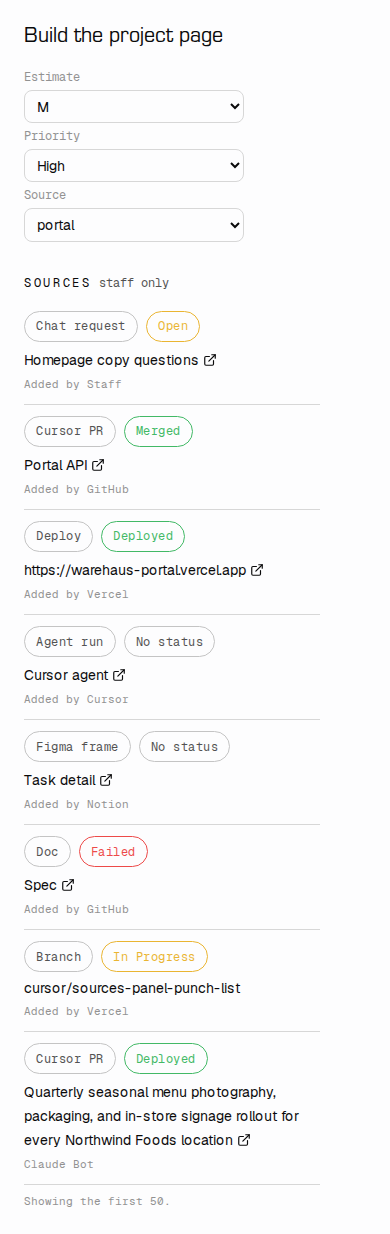
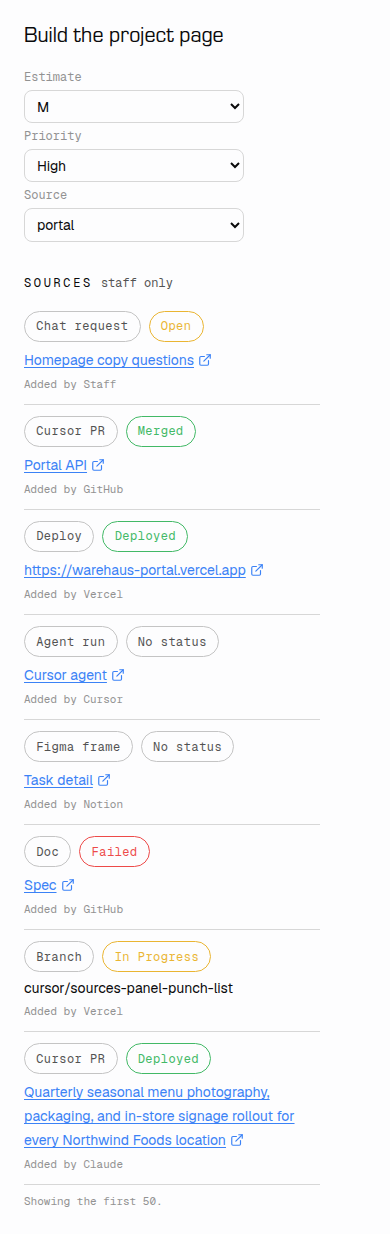
Prefix short added-by names and underline source links.
Every short actor reads as "Added by {name}", and a trailing bot or source marker is dropped so claude_bot is "Added by Claude". Source titles use the info hue, which stays distinct from the foreground inside the design-system scope, and stay underlined with a new-tab accessible name.

diff --git a/apps/portal/src/components/tasks/TaskSources.test.ts b/apps/portal/src/components/tasks/TaskSources.test.ts
@@ -39,7 +39,15 @@ describe('task sources panel', () => {
     assert.match(html, /Added by Notion/);
     assert.equal(html.includes('>Ready<'), false);
     assert.equal(html.includes('>Notion<'), false);
-    assert.match(html, />Claude Bot</);
+    assert.equal(html.includes('>Claude Bot<'), false);
+    assert.equal(html.includes('Added by Claude Bot'), false);
+    assert.match(html, /Added by Claude/);
+    const names = [...html.matchAll(/<a\b[^>]*aria-label="([^"]*)"/g)].map((match) => match[1] ?? '');
+    assert.equal(names.length, SOURCE_PANEL_LINKS.length - 1);
+    for (const name of names) assert.match(name, / \(opens in a new tab\)$/);
+    assert.ok(names.includes('Portal API (opens in a new tab)'));
+    assert.ok(names.includes('Homepage copy questions (opens in a new tab)'));
+    assert.equal(html.includes('aria-label="cursor/sources-panel-punch-list'), false);
     assert.match(html, /task-source-link/);
     assert.match(html, /lucide-external-link/);
     assert.match(html, /Quarterly seasonal menu photography/);
@@ -87,6 +95,9 @@ describe('task sources panel', () => {
     assert.match(modal, /marginTop: phone \? 'calc\(var\(--s-6\) - 24px\)'/);
     const css = readFileSync(new URL('../../styles/global.css', import.meta.url), 'utf8');
     assert.match(css, /\.task-sources-section\s*\{\s*margin-top:\s*var\(--s-6\);/);
+    assert.match(css, /\.ds-scope a\.task-source-link\s*\{[^}]*color:\s*var\(--info\)/);
+    assert.match(css, /\.ds-scope a\.task-source-link\s*\{[^}]*text-decoration:\s*underline/);
+    assert.equal(/\.ds-scope a\.task-source-link\s*\{[^}]*var\(--accent\)/.test(css), false);
     assert.match(css, /\.ds-scope a\.task-source-link:hover[\s\S]*text-decoration:\s*underline/);
     const tasks = readFileSync(new URL('../../../convex/tasks.ts', import.meta.url), 'utf8');
     const start = tasks.indexOf('export const linksForStaff');

diff --git a/packages/portal-sync/src/portalApi.ts b/packages/portal-sync/src/portalApi.ts
@@ -474,10 +474,21 @@ function looksLikeOpaqueId(value: string): boolean {
 }
 
 /**
+ * Drop a trailing bot or source marker so `claude_bot` is "Claude", not "Claude Bot".
+ * A name that is only that marker stays as written.
+ */
+function actorName(value: string): string {
+  const parts = value.trim().toLowerCase().split(/[_-]+/).filter(Boolean);
+  const tail = parts[parts.length - 1];
+  if (parts.length > 1 && (tail === 'bot' || tail === 'source')) parts.pop();
+  return sourcePlainWords(parts.join(' '));
+}
+
+/**
  * Who added the link, in plain words.
  * Known actors, including Notion, are named.
  * A Convex id or other long alphanumeric is "Added by Staff", not a title-cased id.
- * Any other unknown value is title-cased.
+ * Every other short name is "Added by {name}". A bot or source suffix is not part of the name.
  */
 export function sourceAddedByLabel(addedBy: string | null | undefined): string {
   const raw = addedBy?.trim() ?? '';
@@ -485,8 +496,8 @@ export function sourceAddedByLabel(addedBy: string | null | undefined): string {
   const named = ADDED_BY_PLAIN[raw.toLowerCase()];
   if (named) return named;
   if (looksLikeOpaqueId(raw)) return 'Added by Staff';
-  const words = sourcePlainWords(raw);
-  return words || 'Unknown';
+  const name = actorName(raw);
+  return name ? `Added by ${name}` : 'Unknown';
 }
 
 /** https links can be opened. A repo branch and any other scheme stay plain text. */

diff --git a/packages/portal-sync/src/portalApi.test.ts b/packages/portal-sync/src/portalApi.test.ts
@@ -548,7 +548,14 @@ describe('task link backfill', () => {
     assert.equal(sourceAddedByLabel('vercel-webhook'), 'Added by Vercel');
     assert.equal(sourceAddedByLabel('staff'), 'Added by Staff');
     assert.equal(sourceAddedByLabel('notion'), 'Added by Notion');
-    assert.equal(sourceAddedByLabel('claude_bot'), 'Claude Bot');
+    assert.equal(sourceAddedByLabel('claude_bot'), 'Added by Claude');
+    assert.equal(sourceAddedByLabel('claude'), 'Added by Claude');
+    assert.equal(sourceAddedByLabel('linear_bot'), 'Added by Linear');
+    assert.equal(sourceAddedByLabel('figma-source'), 'Added by Figma');
+    assert.equal(sourceAddedByLabel('github_source'), 'Added by GitHub');
+    assert.equal(sourceAddedByLabel('bridge'), 'Added by Bridge');
+    assert.notEqual(sourceAddedByLabel('claude_bot'), 'Claude Bot');
+    assert.notEqual(sourceAddedByLabel('claude_bot'), 'Added by Claude Bot');
     assert.equal(sourceAddedByLabel('k57f3m9q2n4p5r6s7t8v9w0x1y2z3a'), 'Added by Staff');
     assert.equal(sourceAddedByLabel('a1b2c3d4e5f67890abcd1234ef567890'), 'Added by Staff');
     assert.equal(sourceAddedByLabel('550e8400-e29b-41d4-a716-446655440000'), 'Added by Staff');

diff --git a/apps/portal/src/styles/global.css b/apps/portal/src/styles/global.css
@@ -26,10 +26,11 @@ main {
   min-height: 100dvh;
 }
 
-/* Staff source titles. Accent is the design-system link color. */
+/* Staff source titles. Inside .ds-scope, --accent is the monochrome ink/paper
+   and matches --fg. --info is the semantic hue the token set does not remap. */
 .ds-scope a.task-source-link {
-  color: var(--accent);
-  text-decoration: none;
+  color: var(--info);
+  text-decoration: underline;
   text-underline-offset: 0.15em;
 }
 .ds-scope a.task-source-link:hover,

diff --git a/apps/portal/src/components/tasks/TaskSources.tsx b/apps/portal/src/components/tasks/TaskSources.tsx
@@ -48,6 +48,7 @@ function SourceTitle({ href, text }: { href: string | null; text: string }) {
         href={href}
         target="_blank"
         rel="noreferrer noopener"
+        aria-label={`${text} (opens in a new tab)`}
         style={{ fontSize: 'var(--t-sm)', overflowWrap: 'anywhere' }}
       >
         {text}
